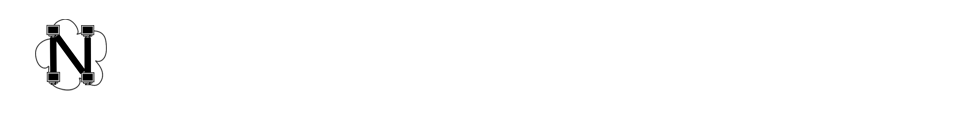
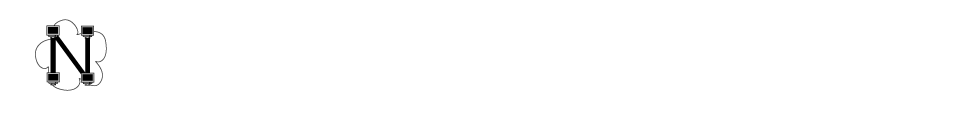
www: update header web
This commit (1) updates header-web.png to use the new improved
icons (2) -- while there -- put the title and subtitle in the
web page (where we can translate it) instead of putting them in
header-web.png.

From Alessio Palmero Aprosio.  Thanks!

Changed region(s): [[0.0306, 0.155, 0.1224, 0.5891], [0.0306, 0.6202, 0.1224, 0.7132]]

diff --git a/neubot/www/header.html b/neubot/www/header.html
@@ -64,13 +64,15 @@
 
       <div id="header">
         <a id="x_link_to_nexa" href="http://nexa.polito.it/"></a>
+
         <a id="x_link_to_status" href="index.html"></a>
-        <h1 class="blog-title hidden-tag">
+        <h1 class="blog-title">
          <a href="index.html">Neubot web interface</a>
         </h1>
-        <p class="description hidden-tag">
+        <p class="blog-description">
          The web-interface to control the neubot daemon
         </p>
+
         <h2 class="hidden-tag">
          <a href="http://nexa.polito.it/">Nexa</a>
         </h2>

diff --git a/neubot/www/css/style.css b/neubot/www/css/style.css
@@ -171,7 +171,11 @@ h1 {
 h1.blog-title {
     font-weight: bold;
     letter-spacing: -1px;
-    padding: 35px 40px 0pt;
+    padding: 35px 0 0 130px;
+}
+p.blog-description {
+    padding: 0 0 0 130px;
+    color: white;
 }
 h1.blog-title a, #header .description {
     color: white;
